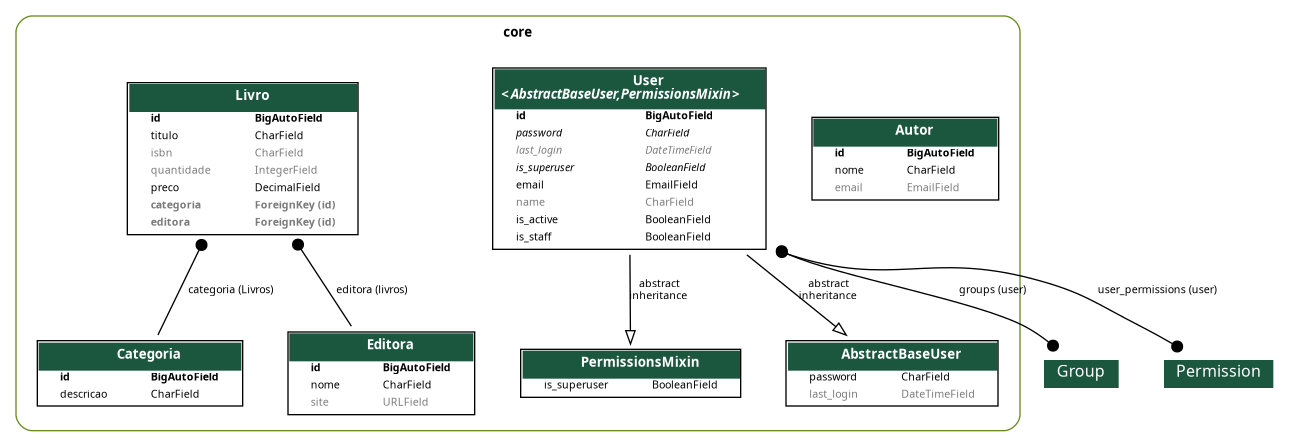
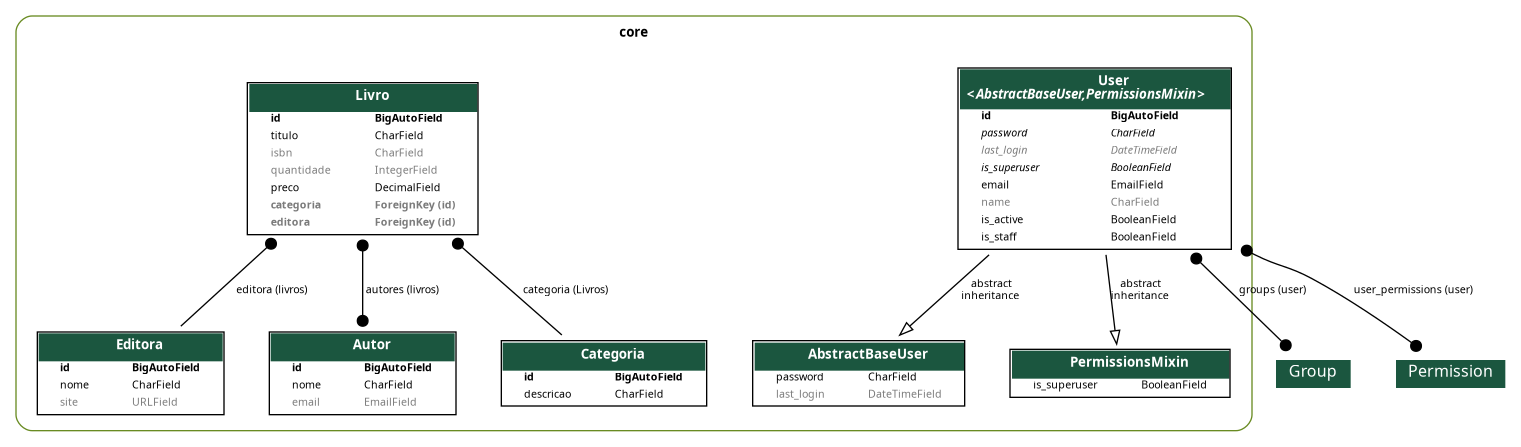
feat: inclusão do relacionamento n para n entre Livro e Autor

diff --git a/core/models/livro.py b/core/models/livro.py
@@ -1,8 +1,8 @@
 from django.db import models
 
+from .autor import Autor
 from .categoria import Categoria
 from .editora import Editora
-from core.models import editora
 
 
 class Livro (models.Model):
@@ -13,6 +13,7 @@ class Livro (models.Model):
     categoria = models.ForeignKey(
         Categoria, on_delete=models.PROTECT, related_name='Livros', null=True, blank=True)
     editora = models.ForeignKey(Editora, on_delete=models.PROTECT, related_name='livros', null=True, blank=True)
+    autores = models.ManyToManyField(Autor, related_name='livros')
 
     def __str__(self):
         return f'({self.id}) {self.titulo} ({self.quantidade})'

diff --git a/core/migrations/0009_livro_autores.py b/core/migrations/0009_livro_autores.py
@@ -1,0 +1,18 @@
+# Generated by Django 5.2.12 on 2026-03-17 19:18
+
+from django.db import migrations, models
+
+
+class Migration(migrations.Migration):
+
+    dependencies = [
+        ('core', '0008_livro_editora'),
+    ]
+
+    operations = [
+        migrations.AddField(
+            model_name='livro',
+            name='autores',
+            field=models.ManyToManyField(related_name='livros', to='core.autor'),
+        ),
+    ]

diff --git a/core/models/autor.py b/core/models/autor.py
@@ -1,7 +1,4 @@
-from tabnanny import verbose
-
 from django.db import models
-
 
 class Autor(models.Model):
     nome = models.CharField(max_length=100)
@@ -9,7 +6,7 @@ class Autor(models.Model):
 
     def __str__(self):
         return f'{self.id}, {self.nome}'
-    
+
     class Meta:
         verbose_name = 'autor'
         verbose_name_plural = 'autores'
